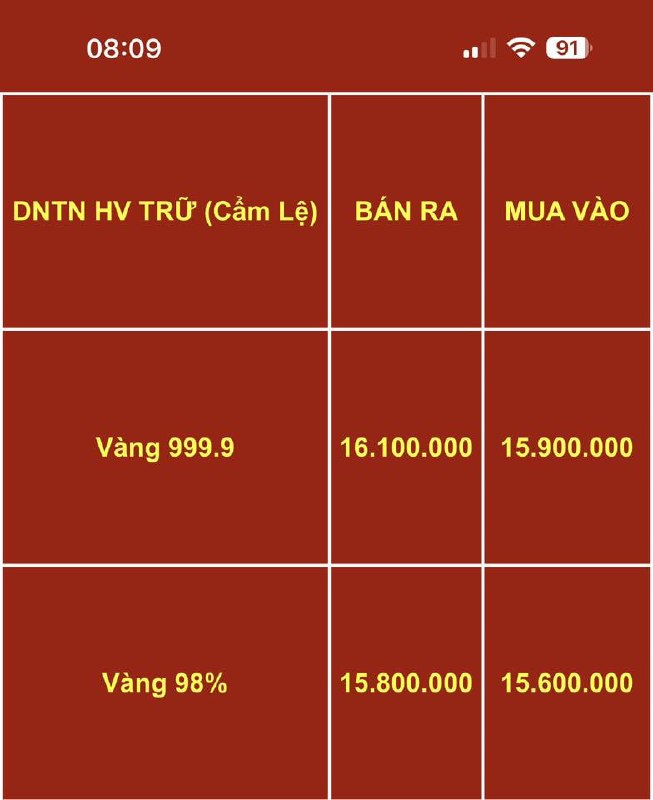
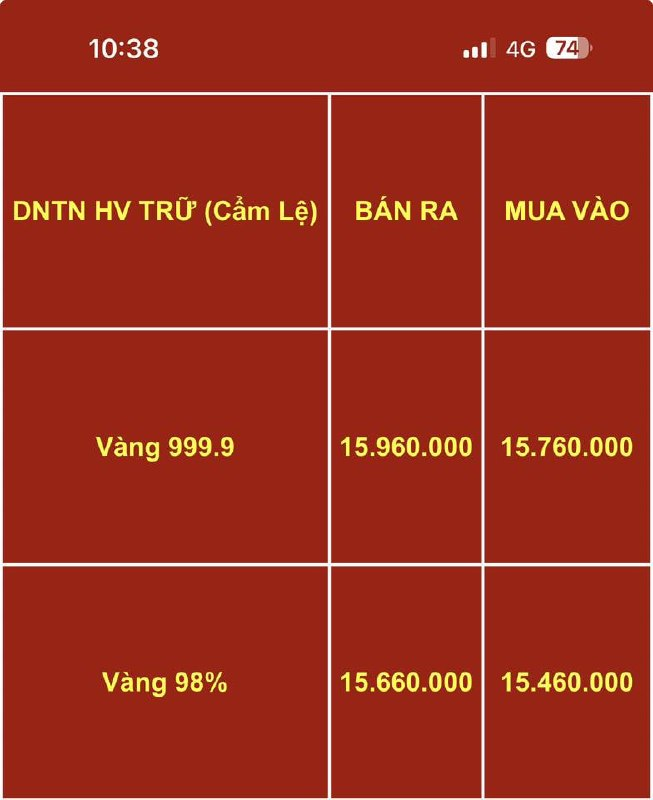
Update tru-cam-le price image (11:04)

diff --git a/app/data/goldShops.ts b/app/data/goldShops.ts
@@ -33,7 +33,7 @@ export const GOLD_SHOPS: GoldShop[] = [
     name: "Trữ Cẩm Lệ",
     location: "Đà Nẵng",
     image: "images/tru-cam-le.jpg",
-    updatedAt: "08:18",
+    updatedAt: "11:04",
   },
 ];
 
